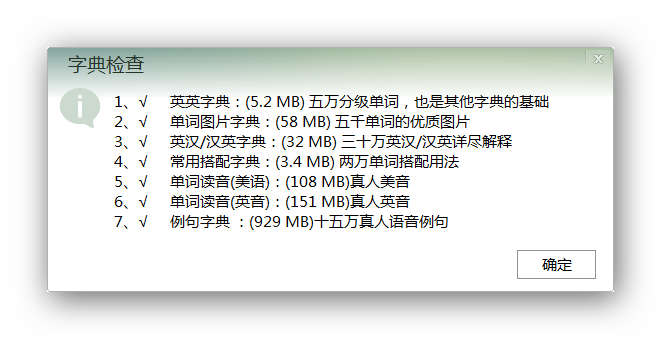
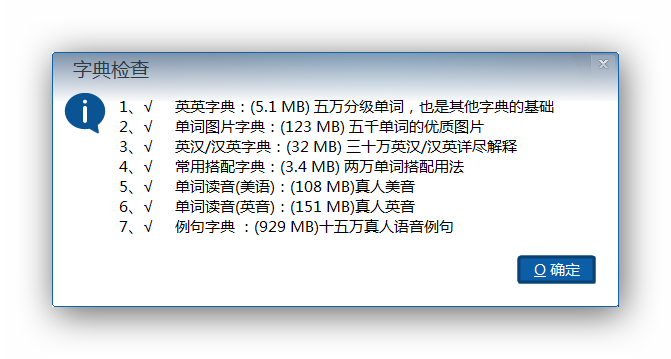
更新"安装字典"章节到V2.8

Changed region(s): [[0.0605, 0.118, 0.938, 0.885]]

diff --git a/source/ref/dictionary/install.rst b/source/ref/dictionary/install.rst
@@ -8,22 +8,21 @@
 
 字典文件
 ========
+.. versionchanged:: 2.8
 
-1. edd.dat 英英字典：(5.2 MB) 五万分级单词，也是其他字典的基础；
-2. cwp.dat 单词图片字典：(58 MB) 五千单词的优质图片；
-3. ced.dat 英汉/汉英字典：(32 MB) 三十万英汉/汉英详尽解释；
-4. dpd.dat 常用搭配字典：(3.4 MB) 两万单词搭配用法；
-5. mall.dat 单词读音(美语)：(108 MB) 真人美音；
-6. ball.dat 单词读音(英音)：(151 MB) 真人英音；
-7. sdp.dat 例句字典：(929 MB) 十五万真人语音例句。
+1. edd3.dic 英英字典：(5.1 MB) 五万分级单词，也是其他字典的基础；
+2. cwp3.dic 单词图片字典：(123 MB) 七千单词的优质图片；
+3. ced3.dic 英汉/汉英字典：(32 MB) 三十万英汉/汉英详尽解释；
+4. dpd3.dic 常用搭配字典：(3.4 MB) 两万单词搭配用法；
+5. mall3.dic 单词读音(美语)：(108 MB) 真人美音；
+6. ball3.dic 单词读音(英音)：(151 MB) 真人英音；
+7. sdp3.dic 例句字典：(986 MB) 十五万真人语音例句。
 
 下载和安装
 ================
 完整版包含所有字典，非完整版须手动安装字典。
 
-`下载七合一字典压缩包 <http://www.aboboo.com/download/>`_ ，
-
-把七个字典文件解压到 **应用程序数据目录** （默认在C:\\Users\\{Username}\\Documents\\Aboboo\\data\\），重启Aboboo。
+`下载字典 <http://www.aboboo.com/download/>`_ ，把字典文件拷贝到 **应用程序数据目录** （默认在C:\\Users\\{Username}\\Documents\\Aboboo\\data\\），重启Aboboo。
 
 
 检查字典完整性
